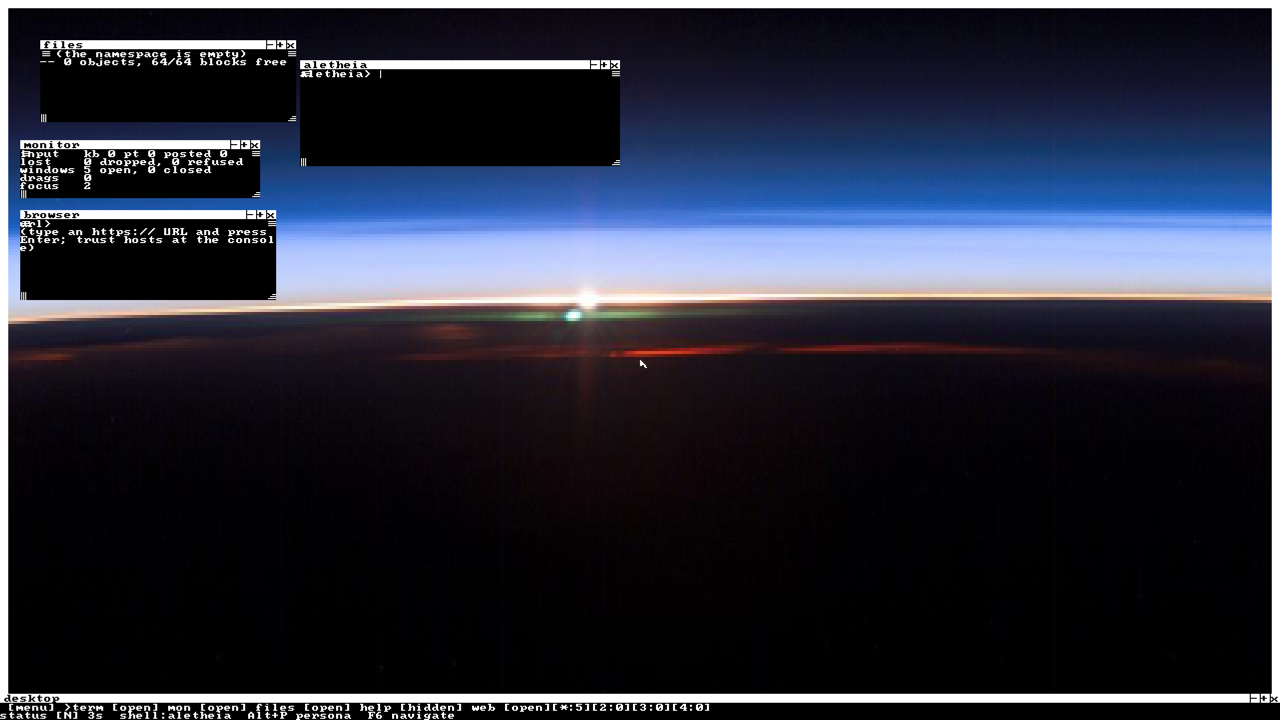
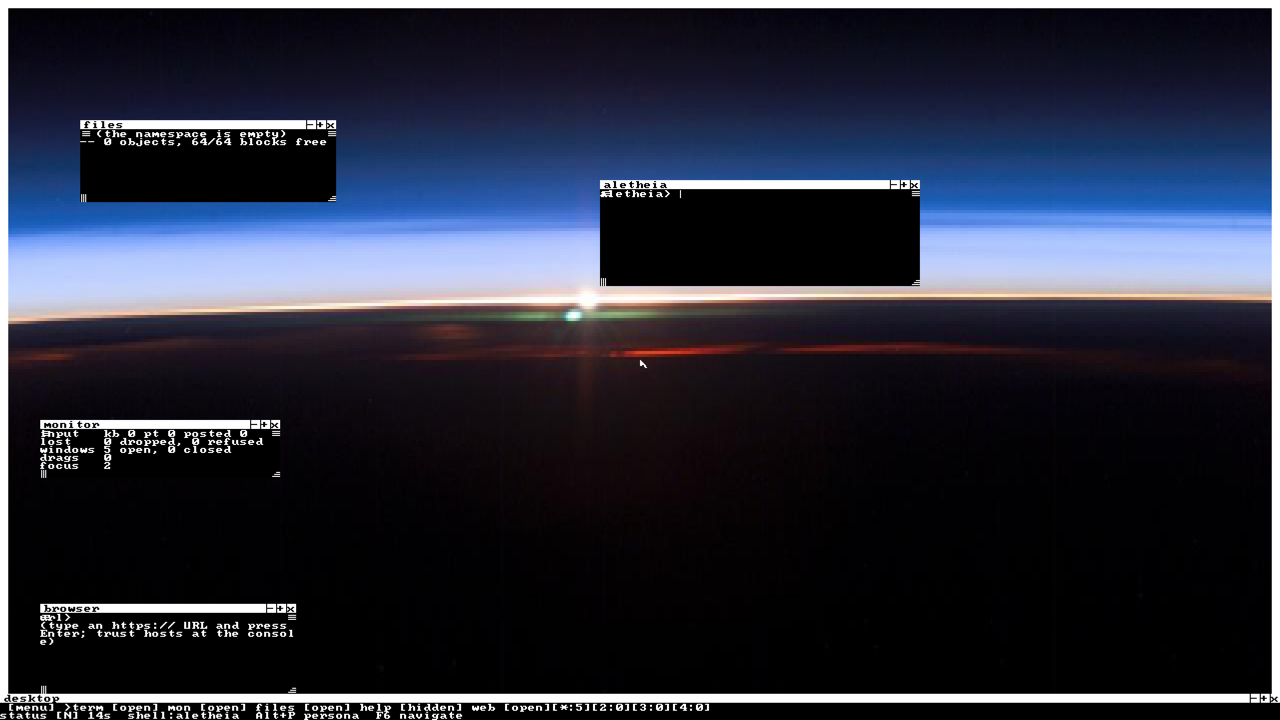
feat(desktop): windows open where the screen is (ADR-195)
desktop::place maps a window's historic 640x240 position to the same
fraction of the logical desktop; place_window keeps it on screen and above
the taskbar. Exact historic coordinates at 640x240, so every gate's recorded
layout holds. Host tests for both; all nine boot/desktop gates and the
quality gate pass. STATUS records the v0.4.0 release (System 1 v2 asset).

diff --git a/kernel-core/src/desktop.rs b/kernel-core/src/desktop.rs
@@ -118,6 +118,31 @@ pub const fn ui_scale(w: u32, h: u32) -> u32 {
     s
 }
 
+/// Where a window's historic 640x240 position lands on a `w` x `h` logical desktop (ADR-195): the
+/// same fraction of the screen, so the layout spreads over a large display instead of clustering
+/// in its top-left corner, and is EXACTLY the historic coordinate at 640x240.
+pub const fn place(x: i32, y: i32, w: u32, h: u32) -> (i32, i32) {
+    (
+        (x as i64 * w as i64 / W as i64) as i32,
+        (y as i64 * h as i64 / H as i64) as i32,
+    )
+}
+
+/// [`place`], then kept inside the work area — the screen above the taskbar — for a window of
+/// `win_w` x `win_h`. At 640x240 the historic coordinate is returned untouched (the recorded
+/// layout, and every gate that clicks it, predate the rule).
+pub const fn place_window(x: i32, y: i32, win: (u32, u32), w: u32, h: u32) -> (i32, i32) {
+    if w == W && h == H {
+        return (x, y);
+    }
+    let (px, py) = place(x, y, w, h);
+    let max_x = w as i32 - win.0 as i32;
+    let max_y = h as i32 - TASKBAR_H as i32 - win.1 as i32;
+    let cx = if px > max_x { max_x } else { px };
+    let cy = if py > max_y { max_y } else { py };
+    (if cx < 0 { 0 } else { cx }, if cy < 0 { 0 } else { cy })
+}
+
 /// Backing pages a desktop of `w` x `h` BGRA pixels needs (ADR-192).
 pub const fn pages_for(w: u32, h: u32) -> usize {
     (w as usize * h as usize * 4).div_ceil(crate::dma::PAGE)
@@ -839,10 +864,24 @@ impl<H: VirtioHal + Hal, T: Transport + ConfigWrite> Desktop<H, T> {
 
         let mut wm = WindowManager::new();
         let tok_win = wm
-            .open(&mut comp, WINDOW, tw, th, WINDOW_X, WINDOW_Y)
+            .open(
+                &mut comp,
+                WINDOW,
+                tw,
+                th,
+                place_window(WINDOW_X, WINDOW_Y, (tw, th), w, h).0,
+                place_window(WINDOW_X, WINDOW_Y, (tw, th), w, h).1,
+            )
             .map_err(|_| "the terminal window was refused")?;
         let tok_mon = wm
-            .open(&mut comp, MONITOR, mw, mh, MON_X, MON_Y)
+            .open(
+                &mut comp,
+                MONITOR,
+                mw,
+                mh,
+                place_window(MON_X, MON_Y, (mw, mh), w, h).0,
+                place_window(MON_X, MON_Y, (mw, mh), w, h).1,
+            )
             .map_err(|_| "the monitor window was refused")?;
         let mut packed = Vec::new();
         term.render_packed_with_cursor(TITLE, &mut packed);
@@ -855,7 +894,14 @@ impl<H: VirtioHal + Hal, T: Transport + ConfigWrite> Desktop<H, T> {
         let mut help = TextGrid::new(HELP_COLS, HELP_ROWS);
         let (hw, hh) = help.pixel_size();
         let tok_help = wm
-            .open(&mut comp, HELP, hw, hh, HELP_X, HELP_Y)
+            .open(
+                &mut comp,
+                HELP,
+                hw,
+                hh,
+                place_window(HELP_X, HELP_Y, (hw, hh), w, h).0,
+                place_window(HELP_X, HELP_Y, (hw, hh), w, h).1,
+            )
             .map_err(|_| "the shortcuts window was refused")?;
         // Keep the reference as explicit rows so the help surface cannot silently clip newly
         // added shortcuts. The grid is sized to fit this complete reference on the 640x240
@@ -893,7 +939,14 @@ impl<H: VirtioHal + Hal, T: Transport + ConfigWrite> Desktop<H, T> {
         let mut browser = TextGrid::new(BROWSER_COLS, BROWSER_ROWS);
         let (bw, bh) = browser.pixel_size();
         let tok_browser = wm
-            .open(&mut comp, BROWSER, bw, bh, BROWSER_X, BROWSER_Y)
+            .open(
+                &mut comp,
+                BROWSER,
+                bw,
+                bh,
+                place_window(BROWSER_X, BROWSER_Y, (bw, bh), w, h).0,
+                place_window(BROWSER_X, BROWSER_Y, (bw, bh), w, h).1,
+            )
             .map_err(|_| "the browser window was refused")?;
         browser.write(b"url> \n(type an https:// URL and press Enter; trust hosts at the console)");
         let mut browser_packed = Vec::new();
@@ -903,7 +956,14 @@ impl<H: VirtioHal + Hal, T: Transport + ConfigWrite> Desktop<H, T> {
         let mut files = TextGrid::new(FILES_COLS, FILES_ROWS);
         let (fw, fh) = files.pixel_size();
         let tok_files = wm
-            .open(&mut comp, FILES, fw, fh, FILES_X, FILES_Y)
+            .open(
+                &mut comp,
+                FILES,
+                fw,
+                fh,
+                place_window(FILES_X, FILES_Y, (fw, fh), w, h).0,
+                place_window(FILES_X, FILES_Y, (fw, fh), w, h).1,
+            )
             .map_err(|_| "the files window was refused")?;
         let panel = FilePanel::new(FILES_VISIBLE);
         panel.render(&mut files);
@@ -1708,6 +1768,7 @@ impl<H: VirtioHal + Hal, T: Transport + ConfigWrite> Desktop<H, T> {
             }
             _ => return,
         };
+        let (x, y) = place_window(x, y, (w, h), self.w, self.h);
         let Ok(token) = self.wm.open(&mut self.comp, id, w, h, x, y) else {
             return;
         };

diff --git a/kernel-core/tests/compositor.rs b/kernel-core/tests/compositor.rs
@@ -624,3 +624,29 @@ fn the_ui_scale_keeps_text_legible_and_the_layout_whole() {
         "past the 4 Mpx bound"
     );
 }
+
+#[test]
+fn window_placement_is_historic_at_640x240_and_proportional_beyond() {
+    use kernel_core::desktop::{place, H, W};
+    for (x, y) in [(300, 60), (20, 140), (0, 0), (639, 239)] {
+        assert_eq!(place(x, y, W, H), (x, y));
+    }
+    assert_eq!(place(300, 60, 1280, 720), (600, 180));
+    assert_eq!(place(20, 140, 960, 540), (30, 315));
+}
+
+#[test]
+fn a_placed_window_stays_above_the_taskbar_and_on_screen() {
+    use kernel_core::desktop::{place_window, H, W};
+    assert_eq!(
+        place_window(20, 210, (256, 90), W, H),
+        (20, 210),
+        "historic at 640x240"
+    );
+    let (x, y) = place_window(20, 210, (256, 90), 1280, 720);
+    assert!(x >= 0 && x + 256 <= 1280);
+    let panel = 2 * kernel_core::textgrid::CELL as i32 + kernel_core::textgrid::TITLE_H as i32;
+    assert!(y >= 0 && y + 90 <= 720 - panel, "{y}: under the taskbar");
+    let (x, y) = place_window(639, 239, (400, 200), 960, 540);
+    assert!(x + 400 <= 960 && y + 200 <= 540);
+}

diff --git a/docs/adr/ADR-195-windows-open-where-the-screen-is.md b/docs/adr/ADR-195-windows-open-where-the-screen-is.md
@@ -1,0 +1,29 @@
+# ADR-195 — Windows open where the screen is
+
+**Status:** Accepted (2026-09-26)
+**Requirements:** REQ-GFX-016 (extended)
+**Builds on:** ADR-192/194 (the desktop at the display's size, scaled).
+
+## Context
+
+At 1280x720 logical (a 1440p screen at 2x), every window still opened at its 640x240-era
+coordinate: five windows in the top-left third of the screen, the rest empty.
+
+## Decision
+
+* `desktop::place(x, y, w, h)` maps a historic position to the same FRACTION of a `w x h` desktop;
+  `place_window` then keeps the window inside the work area (on screen, above the taskbar). At
+  640x240 both return the historic coordinate untouched, so every recorded layout and every gate
+  that clicks it keep their meaning.
+* Used when the desktop opens its five windows and when a closed window is reopened from the taskbar.
+
+## Proof
+
+Host: `window_placement_is_historic_at_640x240_and_proportional_beyond`,
+`a_placed_window_stays_above_the_taskbar_and_on_screen`. Live: `docs/evidence/desktop-2560x1440-scale2.png`
+(windows spread across the screen, the browser window above the taskbar). All nine boot and desktop
+gates and `scripts/quality-gate.sh` pass.
+
+## Non-claims
+
+No tiling, snapping or remembered positions; window SIZES are still the historic cell counts.

diff --git a/STATUS.md b/STATUS.md
@@ -1271,6 +1271,13 @@ scripts/vm-e2e-vbox.sh (VirtualBox, the second-hypervisor rung), and scripts/des
 - Fresh same-host/same-QEMU comparative measurement (`BOOT_SAMPLES=3`, `WORKLOAD_OPS=12`) passed: Aletheia median boot **8,193 ms** vs Linux **4,149 ms**, idle host CPU **5.3%** vs **1.1%**, typed echo **7 ms/op** vs **39 ms/op**. The boot-path asymmetry and TCG variability remain documented; no overall speed winner is claimed.
 - QEMU still reports no architectural HWP actuator. Physical unlocked-ratio/voltage overclocking remains hardware-qualified work only; no unsafe or synthetic OC claim was introduced.
 
+### 2026-09-26 — windows open where the screen is (ADR-195); v0.4.0 released
+
+- Windows open at the same fraction of the screen they held at 640x240, kept inside the work area
+  above the taskbar (historic coordinates untouched at 640x240).
+- v0.4.0 published: boot-verified VMware package plus `aletheia-console-s1-v2.tar` (System 1 v2),
+  installed from GitHub by `aletheiad model pull aletheia-console-s1` with its digest checked.
+
 ### 2026-09-26 — the UI scales with the display (ADR-194)
 
 - Integer UI scale from the display height (1080p/1440p 2x, 2160p 4x): the desktop lays out at a
